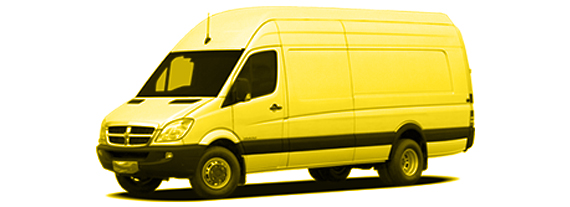
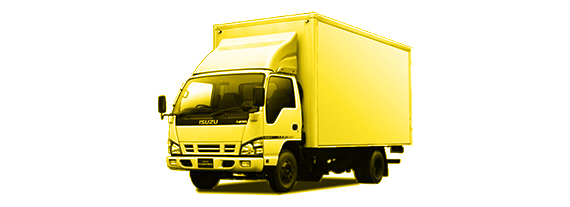
Delivery method changed

diff --git a/index.html b/index.html
@@ -77,7 +77,7 @@
                                 </div>
                                 <div class="mfControls">
 
-                                    <button class="btn-primary btn-primary fa-sign-out" type="submit">Get started now!</button>
+                                    <button class="btn-primary btn-primary fa-sign-out" type="submit">Registrate!</button>
                                 </div>
                                 <div class="mfInfo"></div>
                             </fieldset>
@@ -330,11 +330,11 @@
                                     <img src="images/page01_img08.jpg" alt="#">
 
                                     <div class="caption">
-                                        <h4><a href="#">Van</a></h4>
+                                        <h4><a href="#">Camiones</a></h4>
                                         <h6>Traslados varios, elige la
-                                          modalidad de Van. ¿Por qué limitarse a
+                                          modalidad de camión. ¿Por qué limitarse a
                                           pequeñas cosas si puedes hacer tus pedidos en
-                                          una Van?</h6>
+                                          un camión?</h6>
                                     </div>
                                 </div>
                                 <div class="btn_wrap">
@@ -351,8 +351,7 @@
             <div id="google-map" class="map_model"></div>
             <ul class="map_locations">
                 <li data-x="-100.9855409" data-y="22.1564699">
-                    <p> 78000 San Luis Potosí,
-                        San Luis Potosí, México <span>+1 800 603 6035</span></p>
+                    <p>San Luis Potosí, San Luis Potosí, México</p>
                 </li>
             </ul>
         </div>
@@ -365,21 +364,28 @@
             <div class="container">
                 <div class="brand text-center">
                     <a href="./">
-                        <span class="heading-1">Express</span><br>
+                        <span class="heading-1">Reparto Todo</span><br>
                         <span class="heading-6">DELIVERY SERVICE</span>
                     </a>
                 </div>
+                <ul class="inline-list">
+                    <li><a href="#" class="fa fa-facebook"></a></li>
+                    <li><a href="#" class="fa fa-twitter"></a></li>
+                    <li><a href="#" class="fa fa-apple"></a></li>
+                    <li><a href="#" class="fa fa-android"></a></li>
+                </ul>
+                <p class="contact">Avenida Nicolás Zapata 307 Int. 7, Barrio de Tequisquiapan CP 78230<br>
+                  San Luis Potosí, S.L.P., México <br><br>
+                  Contacto: <br>
+                  <a href="mailto:administracion@repartotodo.com">administracion@repartotodo.com</a><br>
+                  (444) 2463052 <br>
+                  (444) 4811517</p>
                 <div class="copyright">
-                    &#169;<span id="copyright-year">2016</span>
+                    &#169;<span id="copyright-year"> 2016</span>
                     |
-                    All Rights Reserved
+                    Reparto Todo - Todos los derechos reservados
                     <!-- {%FOOTER_LINK} -->
                 </div>
-                <ul class="inline-list">
-                    <li><a href="#" class="fa fa-instagram"></a></li>
-                    <li><a href="#" class="fa fa-twitter"></a></li>
-                    <li><a href="#" class="fa fa-facebook"></a></li>
-                </ul>
             </div>
         </div>
     </footer>

diff --git a/src/index.html b/src/index.html
@@ -77,7 +77,7 @@
                                 </div>
                                 <div class="mfControls">
 
-                                    <button class="btn-primary btn-primary fa-sign-out" type="submit">Get started now!</button>
+                                    <button class="btn-primary btn-primary fa-sign-out" type="submit">Registrate!</button>
                                 </div>
                                 <div class="mfInfo"></div>
                             </fieldset>
@@ -330,11 +330,11 @@
                                     <img src="images/page01_img08.jpg" alt="#">
 
                                     <div class="caption">
-                                        <h4><a href="#">Van</a></h4>
+                                        <h4><a href="#">Camiones</a></h4>
                                         <h6>Traslados varios, elige la
-                                          modalidad de Van. ¿Por qué limitarse a
+                                          modalidad de camión. ¿Por qué limitarse a
                                           pequeñas cosas si puedes hacer tus pedidos en
-                                          una Van?</h6>
+                                          un camión?</h6>
                                     </div>
                                 </div>
                                 <div class="btn_wrap">
@@ -351,8 +351,7 @@
             <div id="google-map" class="map_model"></div>
             <ul class="map_locations">
                 <li data-x="-100.9855409" data-y="22.1564699">
-                    <p> 78000 San Luis Potosí,
-                        San Luis Potosí, México <span>+1 800 603 6035</span></p>
+                    <p>San Luis Potosí, San Luis Potosí, México</p>
                 </li>
             </ul>
         </div>
@@ -365,21 +364,28 @@
             <div class="container">
                 <div class="brand text-center">
                     <a href="./">
-                        <span class="heading-1">Express</span><br>
+                        <span class="heading-1">Reparto Todo</span><br>
                         <span class="heading-6">DELIVERY SERVICE</span>
                     </a>
                 </div>
+                <ul class="inline-list">
+                    <li><a href="#" class="fa fa-facebook"></a></li>
+                    <li><a href="#" class="fa fa-twitter"></a></li>
+                    <li><a href="#" class="fa fa-apple"></a></li>
+                    <li><a href="#" class="fa fa-android"></a></li>
+                </ul>
+                <p class="contact">Avenida Nicolás Zapata 307 Int. 7, Barrio de Tequisquiapan CP 78230<br>
+                  San Luis Potosí, S.L.P., México <br><br>
+                  Contacto: <br>
+                  <a href="mailto:administracion@repartotodo.com">administracion@repartotodo.com</a><br>
+                  (444) 2463052 <br>
+                  (444) 4811517</p>
                 <div class="copyright">
-                    &#169;<span id="copyright-year">2016</span>
+                    &#169;<span id="copyright-year"> 2016</span>
                     |
-                    All Rights Reserved
+                    Reparto Todo - Todos los derechos reservados
                     <!-- {%FOOTER_LINK} -->
                 </div>
-                <ul class="inline-list">
-                    <li><a href="#" class="fa fa-instagram"></a></li>
-                    <li><a href="#" class="fa fa-twitter"></a></li>
-                    <li><a href="#" class="fa fa-facebook"></a></li>
-                </ul>
             </div>
         </div>
     </footer>

diff --git a/src/sass/style.scss b/src/sass/style.scss
@@ -704,16 +704,17 @@ footer {
   width: 100%;
   background-size: cover;
   #footer {
-    background: rgba(0, 0, 0, 0.3) none repeat scroll 0 0;
+    //background: rgba(0, 0, 0, 0.3) none repeat scroll 0 0;
     width: 100%;
-    padding-bottom: 202px;
+    padding-bottom: 100px;
     padding-top: 161px;
     .copyright {
-      padding-top: 138px;
+      color: $default;
+      padding-top: 20px;
       text-align: center;
     }
     .inline-list {
-      margin-top: 35px;
+      margin-top: 70px;
       text-align: center;
       li {
         display: inline-block;
@@ -732,6 +733,28 @@ footer {
         + li {
           margin-left: 16px;
         }
+      }
+    }
+
+    .heading-1 {
+      font-weight: 300;
+    }
+
+    .heading-6 {
+      color: $default;
+    }
+
+    .contact {
+      font-family: 'Open-Sans', sans-serif;
+      font-weight: 100;
+      font-size: 15px;
+      text-transform: uppercase;
+      margin-top: 50px;
+      color: $default;
+      text-align: center;
+
+      a {
+        text-transform: none;
       }
     }
   }

diff --git a/css/style.css b/css/style.css
@@ -1122,19 +1122,19 @@ footer {
 }
 
 footer #footer {
-  background: rgba(0, 0, 0, 0.3) none repeat scroll 0 0;
   width: 100%;
-  padding-bottom: 202px;
+  padding-bottom: 100px;
   padding-top: 161px;
 }
 
 footer #footer .copyright {
-  padding-top: 138px;
+  color: #000;
+  padding-top: 20px;
   text-align: center;
 }
 
 footer #footer .inline-list {
-  margin-top: 35px;
+  margin-top: 70px;
   text-align: center;
 }
 
@@ -1158,6 +1158,28 @@ footer #footer .inline-list li .fa:hover {
 
 footer #footer .inline-list li + li {
   margin-left: 16px;
+}
+
+footer #footer .heading-1 {
+  font-weight: 300;
+}
+
+footer #footer .heading-6 {
+  color: #000;
+}
+
+footer #footer .contact {
+  font-family: 'Open-Sans', sans-serif;
+  font-weight: 100;
+  font-size: 15px;
+  text-transform: uppercase;
+  margin-top: 50px;
+  color: #000;
+  text-align: center;
+}
+
+footer #footer .contact a {
+  text-transform: none;
 }
 
 /*========================================================
